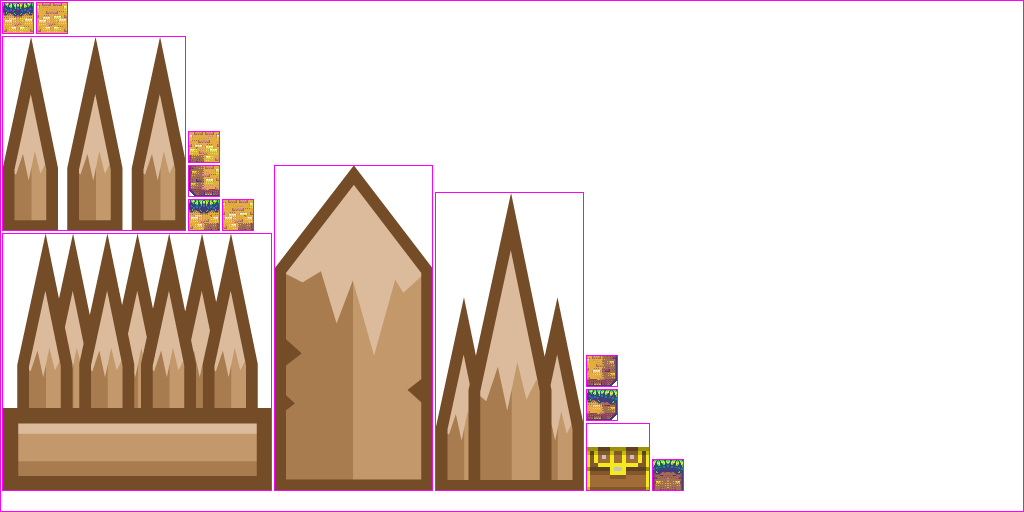
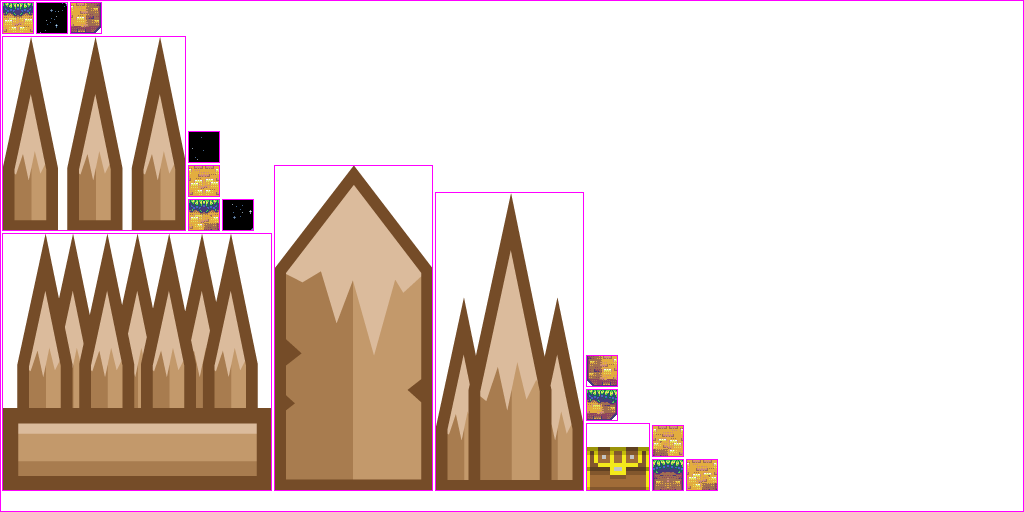
added Levels class

diff --git a/core/src/com/douge/gdx/game/LevelLoader.java b/core/src/com/douge/gdx/game/LevelLoader.java
@@ -7,6 +7,7 @@ import com.badlogic.gdx.graphics.Color;
 import com.badlogic.gdx.graphics.Pixmap;
 import com.badlogic.gdx.graphics.g2d.SpriteBatch;
 import com.badlogic.gdx.utils.Array;
+import com.douge.gdx.game.Levels.Level;
 import com.douge.gdx.game.assets.Assets;
 import com.douge.gdx.game.enemy.Bat;
 import com.douge.gdx.game.enemy.Enemy;
@@ -15,6 +16,7 @@ import com.douge.gdx.game.enemy.Skeleton;
 import com.douge.gdx.game.enemy.Slime;
 import com.douge.gdx.game.objects.AbstractGameObject;
 import com.douge.gdx.game.objects.BackgroundRock;
+import com.douge.gdx.game.objects.BackgroundStar;
 import com.douge.gdx.game.objects.Player;
 import com.douge.gdx.game.objects.Clouds;
 import com.douge.gdx.game.objects.GoldCoin;
@@ -30,18 +32,20 @@ import com.douge.gdx.game.objects.BlackOverlay;
  * @author Emmanuel
  *
  */
-public class Level 
+public class LevelLoader 
 {
-	public static final String TAG = Level.class.getName();
+	public static final String TAG = LevelLoader.class.getName();
 	
+	//objects
 	public Player player; 
 	public Array<GoldCoin> goldCoins; 
 	public Array<JumpPotion> jumpPotion; 
-	
-	// objects
 	public Array<Platform> platforms;
 	public Array<BackgroundTile> backgroundTiles;
 	public Array<Enemy> enemies;
+	
+	public Levels levels;
+	public Level currentLevel;
 	
 	// decoration
 	public Clouds clouds;
@@ -50,15 +54,18 @@ public class Level
 
 	public ArrayList<Integer> enemiesToRemove;
 	
-	public Level (String filename) 
+	public LevelLoader () 
 	{
-		init(filename);
+		init();
 	}
-	private void init (String filename) 
+	private void init () 
 	{
 	    // player character 
 	    player = null; 
-	     
+	    
+	    levels = new Levels();
+	    currentLevel = levels.getLevel(0);
+	    
 	    // objects 
 	    goldCoins = new Array<GoldCoin>(); 
 	    jumpPotion = new Array<JumpPotion>(); 
@@ -68,7 +75,9 @@ public class Level
 		enemiesToRemove = new ArrayList<Integer>();
 		
 		// load image file that represents the level data
-		Pixmap pixmap = new Pixmap(Gdx.files.internal("../core/assets/levels/level-01.png"));
+		//**had to remove underscore in filename to get it to load
+		Pixmap pixmap = new Pixmap(Gdx.files.internal(currentLevel.filepath));
+		
 		float yOffset = 1.5f;
 		// scan pixels from top-left to bottom-right
 		int lastPixel = -1;
@@ -90,14 +99,20 @@ public class Level
 				// find matching color value to identify block type at (x,y)
 				// point and create the corresponding game object if there is a match
 		
-				// rock back
-				if (BLOCK_TYPE.ROCK_BACK.sameColor(currentPixel) || BLOCK_TYPE.validColor(currentPixel)) 
+				if(BLOCK_TYPE.validColor(currentPixel))
 				{
+					// rock back
+					if (BLOCK_TYPE.ROCK_BACK.sameColor(currentLevel.back)) 
+					{
 						obj = new BackgroundRock();
-						obj.position.set(pixelX, baseHeight);
-						backgroundTiles.add((BackgroundTile)obj);
+					}
+					else if(BLOCK_TYPE.STAR_BACK.sameColor(currentLevel.back))
+					{
+						obj = new BackgroundStar();					
+					}
+					obj.position.set(pixelX, baseHeight);
+					backgroundTiles.add((BackgroundTile)obj);
 				}
-		
 				// rock
 				if (BLOCK_TYPE.ROCK_PLATFORM.sameColor(currentPixel)) 
 				{
@@ -206,7 +221,7 @@ public class Level
 		
 		// free memory
 		pixmap.dispose();
-		Gdx.app.debug(TAG, "level '" + filename + "' loaded");
+		Gdx.app.debug(TAG, "level '" + currentLevel.filepath + "' loaded");
 	}
 	
 	public void update (float deltaTime) 

diff --git a/core/src/com/douge/gdx/game/assets/AssetTiles.java b/core/src/com/douge/gdx/game/assets/AssetTiles.java
@@ -8,16 +8,22 @@ public class AssetTiles {
 
 	public final AtlasRegion chest;
 	//public final AtlasRegion spikes;
-	public final AtlasRegion tileTop;
-	public final AtlasRegion tileBot;
+	public final AtlasRegion tileRockTop;
+	public final AtlasRegion tileRockBottom;
+	public final AtlasRegion tileStar1;
+	public final AtlasRegion tileStar2;
+	public final AtlasRegion tileStar3;
 	
 	protected AssetTiles(TextureAtlas atlas) {
 		chest = atlas.findRegion("Pixel Treasure Chest Closed");
-		tileTop = atlas.findRegion("3");
-		tileBot = atlas.findRegion("14");
+		tileRockTop = atlas.findRegion("3");
+		tileRockBottom = atlas.findRegion("14");
 		//you can use set region clip texture if it is a sprite sheet
 		//coordinates can be found within the atlas file
 		//tile.setRegion(2, 72, 270, 258);
+		tileStar1 = atlas.findRegion("13");
+		tileStar2 = atlas.findRegion("15");
+		tileStar3 = atlas.findRegion("16");
 	}
 
 }

diff --git a/core/src/com/douge/gdx/game/Levels.java b/core/src/com/douge/gdx/game/Levels.java
@@ -1,0 +1,42 @@
+package com.douge.gdx.game;
+
+import java.util.ArrayList;
+
+import com.badlogic.gdx.graphics.Color;
+
+public class Levels 
+{
+	public class Level
+	{
+		public int back;
+		public String filepath;
+		
+		public Level(int color, String filepath)
+		{
+			this.back = color;
+			this.filepath = filepath;
+		}
+	}
+	
+	private ArrayList<Level> levels;
+	
+	public Levels()
+	{
+		levels = new ArrayList<Level>();
+		init();
+	}
+
+	private void init() 
+	{
+		Level level1 = new Level(BLOCK_TYPE.ROCK_BACK.getColor(), "../core/assets/levels/level01.png");
+		Level level2 = new Level(BLOCK_TYPE.STAR_BACK.getColor(), "../core/assets/levels/level02.png");
+		
+		levels.add(level2);
+		levels.add(level1);
+	}
+	
+	public Level getLevel(int index)
+	{
+		return levels.get(index);
+	}
+}

diff --git a/core/src/com/douge/gdx/game/Constants.java b/core/src/com/douge/gdx/game/Constants.java
@@ -39,8 +39,6 @@ public class Constants
 	public static final String RANGER_ATLAS_PATH = "../core/assets/images/ranger.atlas";
 	public static final String GOBLIN_ATLAS_PATH = "../core/assets/images/goblin.atlas";
 	
-	public static final String LEVEL_01_PATH = "../core/assets/levels/level_01.png";
-	
 	public static final String TEXTURE_ATLAS_UI = "../core/assets/images/game-ui.atlas";
 	public static final String TEXTURE_ATLAS_LIBGDX_UI = "../core/assets/images/uiskin.atlas";
 	public static final String SKIN_LIBGDX_UI = "../core/assets/images/uiskin.json";

diff --git a/core/src/com/douge/gdx/game/objects/BackgroundStar.java b/core/src/com/douge/gdx/game/objects/BackgroundStar.java
@@ -1,0 +1,24 @@
+package com.douge.gdx.game.objects;
+
+import com.douge.gdx.game.assets.Assets;
+
+public class BackgroundStar extends BackgroundTile
+{
+	public BackgroundStar()
+	{
+		super();
+		int randomStarTile = (int) (Math.random()*3);
+		if(randomStarTile == 0)
+		{
+			regMiddle = Assets.instance.tiles.tileStar1;
+		}
+		else if(randomStarTile == 1)
+		{
+			regMiddle = Assets.instance.tiles.tileStar2;
+		}
+		else if(randomStarTile == 2)
+		{
+			regMiddle = Assets.instance.tiles.tileStar3;
+		}
+	}
+}

diff --git a/core/src/com/douge/gdx/game/WorldController.java b/core/src/com/douge/gdx/game/WorldController.java
@@ -26,7 +26,7 @@ public class WorldController extends InputAdapter
 	
 	private Game game;
 	
-	public Level level;
+	public LevelLoader level;
 	public int score;
 	public float scoreVisual;
 	public float livesVisual;
@@ -72,7 +72,7 @@ public class WorldController extends InputAdapter
 	{
 		score = 0;
 		scoreVisual = 0;
-		level = new Level(Constants.LEVEL_01_PATH);
+		level = new LevelLoader();
 		cameraHelper.setTarget(level.player); 
 	}
 	

diff --git a/desktop/src/com/douge/gdx/game/desktop/DesktopLauncher.java b/desktop/src/com/douge/gdx/game/desktop/DesktopLauncher.java
@@ -22,7 +22,7 @@ public class DesktopLauncher
 			settings.maxHeight = 1024;
 			settings.duplicatePadding = false;
 			settings.debug = drawDebugOutline;
-			TexturePacker.process(settings, "assets-raw/images/goblin", "../core/assets/images", "goblin");
+			TexturePacker.process(settings, "assets-raw/images/tiles", "../core/assets/images", "tiles");
 		}
 		new LwjglApplication(new DougeGdxGame(), config);
 	}

diff --git a/core/src/com/douge/gdx/game/objects/BackgroundRock.java b/core/src/com/douge/gdx/game/objects/BackgroundRock.java
@@ -7,6 +7,6 @@ public class BackgroundRock extends BackgroundTile
 	public BackgroundRock()
 	{
 		super();
-		regMiddle = Assets.instance.tiles.tileBot;
+		regMiddle = Assets.instance.tiles.tileRockBottom;
 	}
 }

diff --git a/core/src/com/douge/gdx/game/BLOCK_TYPE.java b/core/src/com/douge/gdx/game/BLOCK_TYPE.java
@@ -10,6 +10,7 @@ public enum BLOCK_TYPE
 	ROCK_BACK(0, 0, 0), // black
 	ROCK_PLATFORM(0, 255, 0), // green
 	
+	STAR_BACK(112, 146, 190),
 	
 	
 	PLAYER_SPAWNPOINT(255, 255, 255), // white

diff --git a/core/src/com/douge/gdx/game/objects/Rock.java b/core/src/com/douge/gdx/game/objects/Rock.java
@@ -7,6 +7,6 @@ public class Rock extends Platform
 	public Rock()
 	{
 		super();
-		regMiddle = Assets.instance.tiles.tileTop;
+		regMiddle = Assets.instance.tiles.tileRockTop;
 	}
 }
